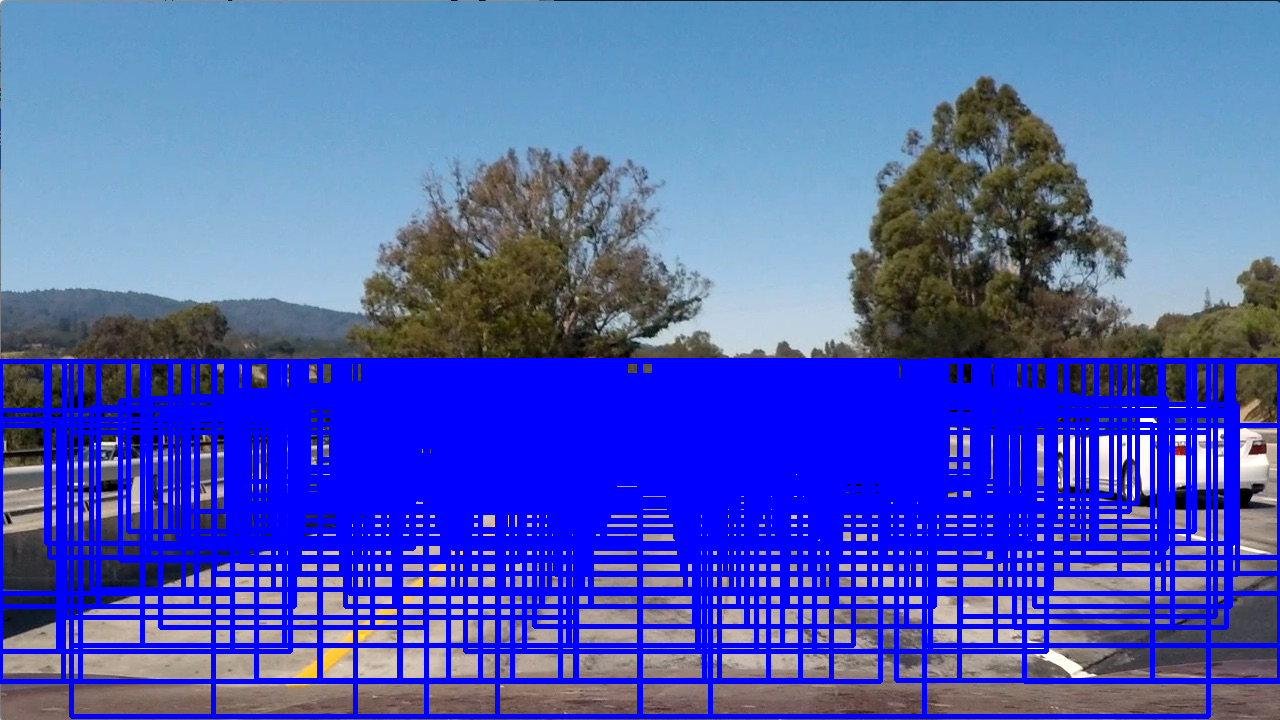
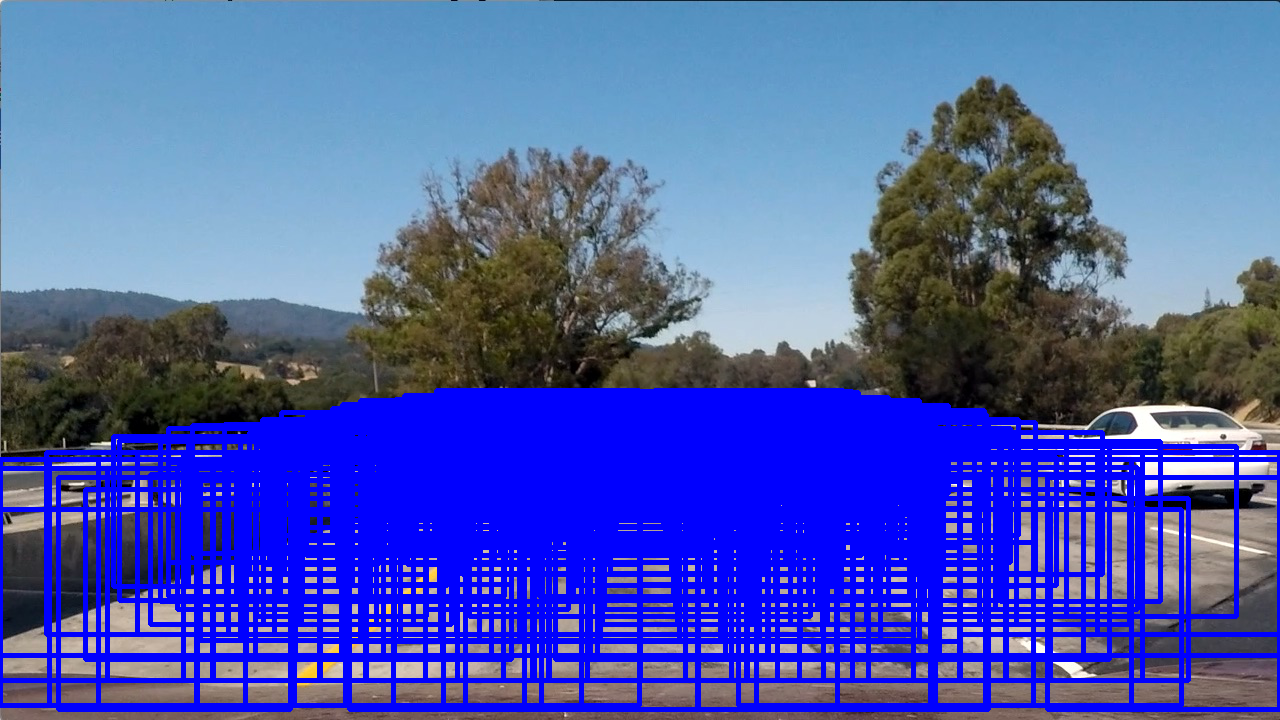
Submittable

Changed region(s): [[0.0, 0.4889, 1.0, 1.0], [0.2188, 0.6722, 0.2812, 0.7333], [0.375, 0.7028, 0.4062, 0.7333]]

diff --git a/detect.py b/detect.py
@@ -51,7 +51,7 @@ Theta.orient = 9
 Theta.pix_per_cell = 8
 Theta.transform_sqrt = False
 Theta.test_size = 0.2
-Theta.threshold = 30
+Theta.threshold = 15
 Theta.numwindows = 100
 Theta.cooling_factor = 0.97
 
